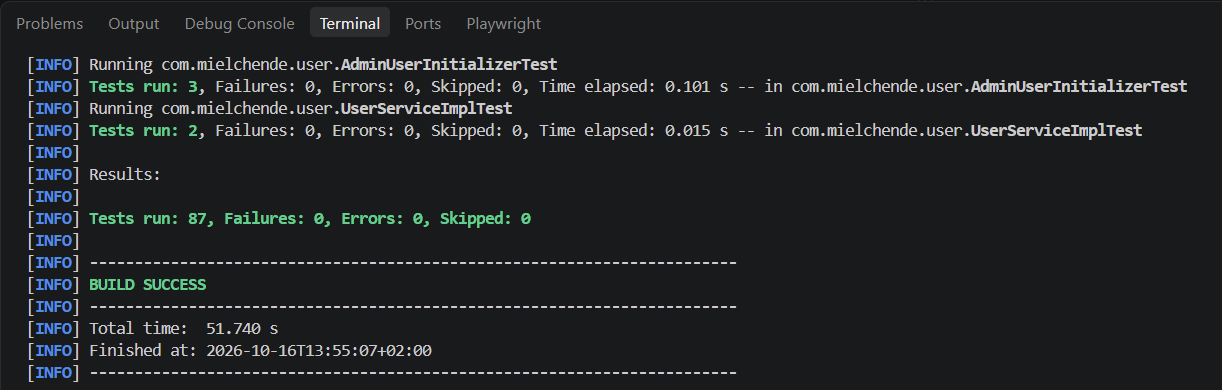
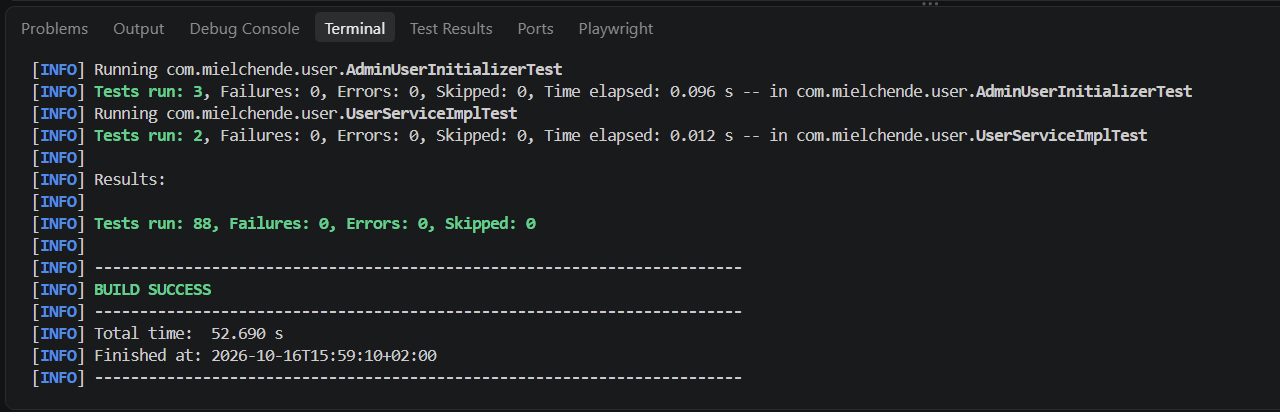
docs: update README with order availability rule and test count

Changed region(s): [[0.0, 0.1538, 0.964, 0.9846], [0.0, 0.0308, 0.5286, 0.0923]]

diff --git a/README.md b/README.md
@@ -385,7 +385,7 @@ El token dura **1 hora**. En el resto de peticiones se envía como `Authorizatio
 
 | Método | Ruta | Descripción |
 |---|---|---|
-| POST | `/orders` | Crea una solicitud `{ items: [{ productId, quantity }], phone?, comments? }` → 201. Producto agotado → 409 |
+| POST | `/orders` | Crea una solicitud `{ items: [{ productId, quantity }], phone?, comments? }` → 201. Producto agotado o todavía no disponible → 409 |
 | GET | `/orders` | Solicitudes del cliente con la sesión iniciada, de la más reciente a la más antigua |
 
 ### Administración (`ROLE_ADMIN`)
@@ -437,12 +437,12 @@ El token dura **1 hora**. En el resto de peticiones se envía como `Authorizatio
 
 Los tests de integración usan **Testcontainers**: levantan un contenedor de **MySQL 8.4**, la misma versión que en desarrollo, en lugar de una base de datos en memoria como H2. Así se prueba contra el mismo motor que usa la aplicación.
 
-La batería tiene **87 tests**:
+La batería tiene **88 tests**:
 
 - **Tests unitarios** de los servicios, la regla de cambio de estado, la fachada de BCrypt y los inicializadores, con Mockito.
 - **Tests de integración** con MockMvc, que recorren toda la cadena (seguridad → controller → servicio → base de datos): registro y login, catálogo, artículos, solicitudes, panel de administración y control de acceso por rol (por ejemplo, un cliente recibe 403 en un endpoint de administración).
 
-[<img src="docs/screenshots/tests-backend.png" width="500" alt="Resultado de ./mvnw test con los 87 tests en verde">](docs/screenshots/tests-backend.png)
+[<img src="docs/screenshots/tests-backend.png" width="500" alt="Resultado de ./mvnw test con los 88 tests en verde">](docs/screenshots/tests-backend.png)
 
 ## Decisiones técnicas
 
